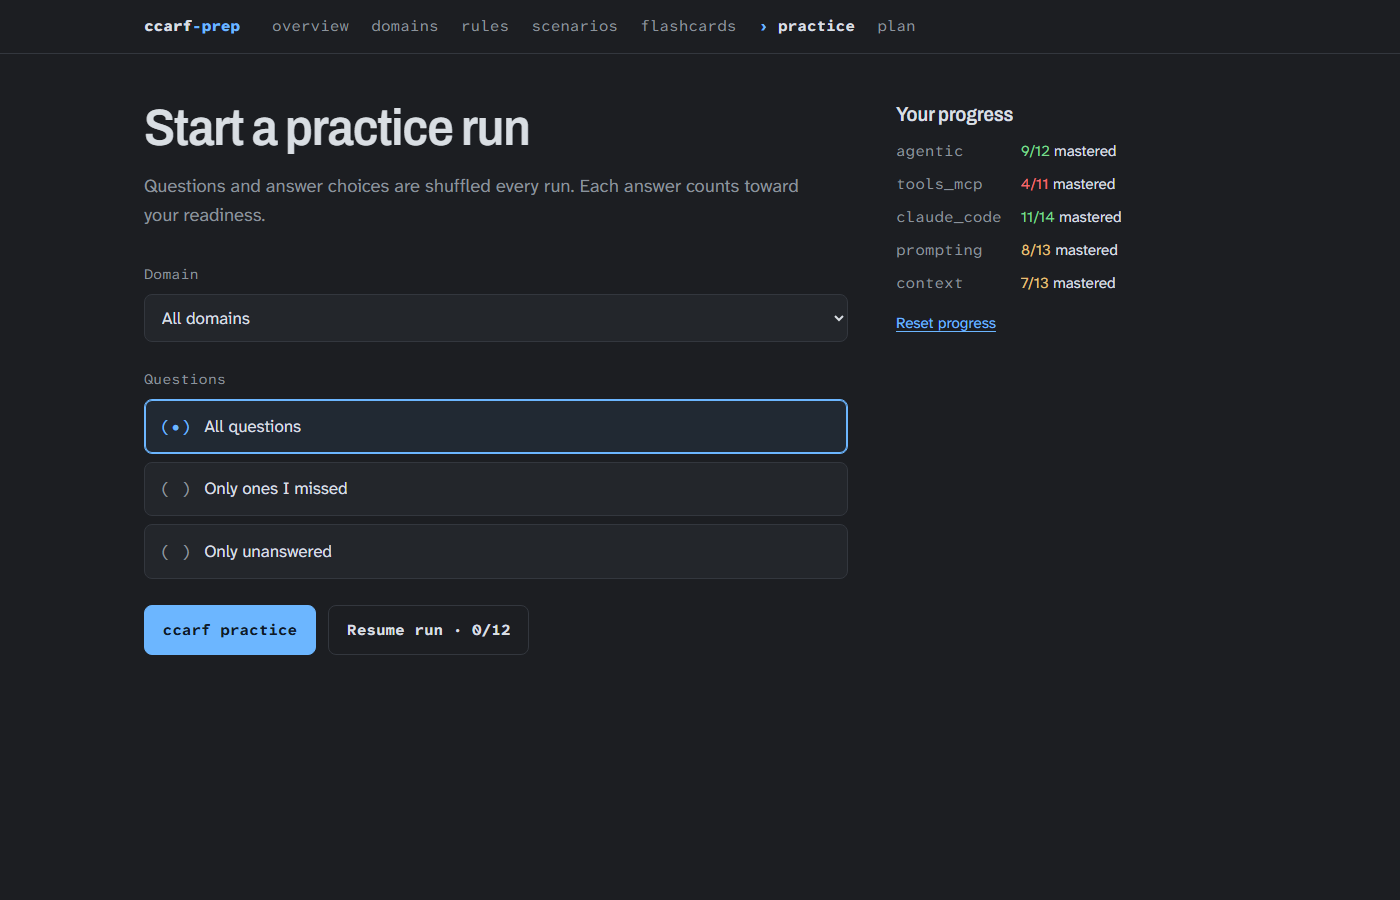
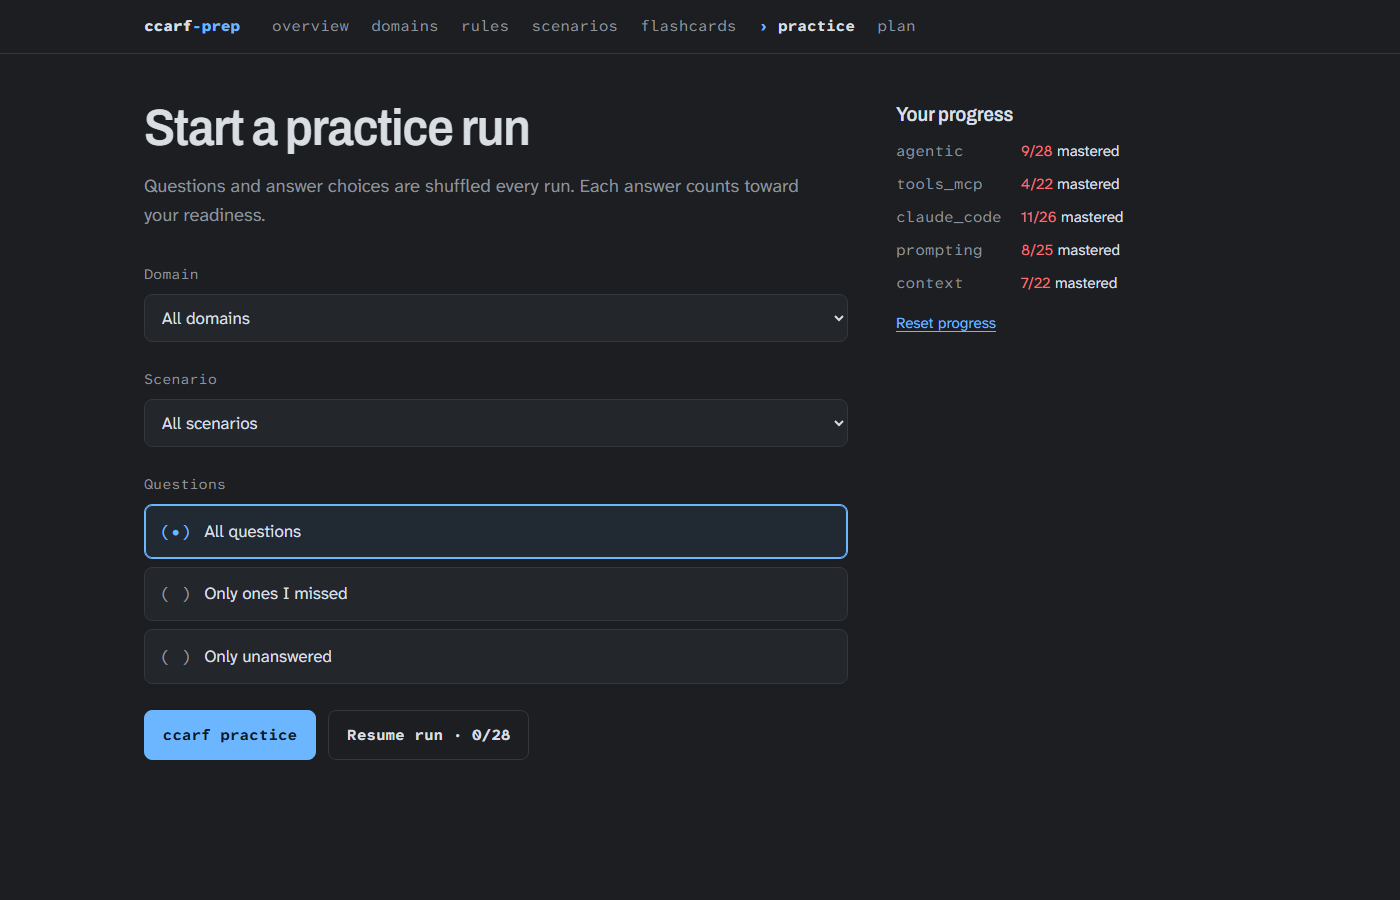
Update README and screenshots for the expanded question bank
Claude-Session: https://claude.ai/code/session_01K6xCNgzK9SvGaRqX1s8Wft

diff --git a/README.md b/README.md
@@ -1,6 +1,6 @@
 # CCAR-F Prep
 
-A study app for the **Claude Certified Architect – Foundations** (CCAR-F) exam. It covers all five exam domains with notes, decision rules, the six exam scenarios, flashcards and 63 practice questions. It tracks how ready you are per domain, and it always suggests practising the domain you're weakest in.
+A study app for the **Claude Certified Architect – Foundations** (CCAR-F) exam. It covers all five exam domains with notes, decision rules, the six exam scenarios, 94 flashcards and 123 practice questions, most of them framed in an exam scenario. It tracks how ready you are per domain, and it always suggests practising the domain you're weakest in.
 
 It's a server-rendered Django app with no build step. It also exports a **static build for GitHub Pages** that you can install on your phone's home screen and use offline.
 
@@ -28,10 +28,11 @@ Screenshots of every page at 1400px and 390px are in [`docs/`](docs/). The appro
   - The primary button, `ccarf practice --domain <slug>`, starts a run for the weakest domain.
 - **Domains:** every task statement for each domain, with "trap" and "what wins" callouts.
 - **Decision rules:** 36 "if this symptom → pick that fix" rows.
-- **Scenarios:** the six exam scenarios, the domains each one covers, and what to look for.
+- **Scenarios:** the six exam scenarios, the domains each one covers, what to look for, and a `ccarf practice --scenario <n>` button to drill one.
 - **Flashcards:** one card at a time, with flip, prev/next, shuffle and arrow keys. Without JavaScript the page shows a readable list of every card.
 - **Practice:**
-  - Pick a domain filter, and a mode: all questions, only the ones you missed, or only unanswered.
+  - Filter by domain and/or scenario, and pick a mode: all questions, only the ones you missed, or only unanswered.
+  - Questions framed in a scenario say so, e.g. `scenario: customer support resolution agent  domain: agentic`.
   - Questions and choices are shuffled once per run.
   - Multi-select questions ("Select TWO") are graded on exact match.
   - After each answer you get feedback in the style of the design: `✗ incorrect  you chose [a]  answer [b]` plus the explanation.
@@ -180,7 +181,8 @@ tests/               pytest-django suites, plus e2e/ for Playwright
 **Content loads in a data migration.**
 - `migrate` alone gives a working app, both in tests (pytest-django runs migrations) and in the Docker entrypoint.
 - The same `content_loader.load()` backs `manage.py load_content`. It upserts on natural keys (domain number, task code, rule/question order, card position) and prunes rows that disappeared from the JSON. Attempts survive reloads unless their question was deleted.
-- It takes a `get_model` callable so the migration can pass historical models. The catch: the migration imports live loader code, so a future schema change has to keep the loader compatible, or freeze a copy into the migration.
+- It takes a `get_model` callable so the migration can pass historical models. The catch: the migration imports live loader code, so the loader has to stay compatible with older schemas. For example, it only sets `Question.scenario` when the model has that field.
+- When the schema changes, add a data migration that reruns the loader (as `0004_reload_content` does). Existing databases, including the Docker volume, then pick up the content on their next `migrate`.
 
 **Grading happens on the server.**
 - The browser only ever sends choice ids. The server checks they belong to the current question, then grades by exact set match: every correct choice and nothing else.
@@ -209,5 +211,5 @@ tests/               pytest-django suites, plus e2e/ for Playwright
 
 ## Content and licences
 
-- **Study content:** `study/content/ccarf.json` holds the domains, task-statement notes, decision rules, scenarios, flashcards and practice questions. The exam facts (60 questions, 120 minutes, 720/1000 to pass, 4 of 6 scenarios, $125) come from the public exam guide; check them against the current guide before you book.
+- **Study content:** `study/content/ccarf.json` holds the domains, task-statement notes, decision rules, scenarios, flashcards and practice questions. Each practice question is grounded in a task statement from the notes, so its explanation matches what the app teaches. Questions can carry a `scenario` number (1–6). `tests/test_content.py` checks the tags, the "Select N" counts, and that the longest choice isn't usually the answer. The exam facts (60 questions, 120 minutes, 720/1000 to pass, 4 of 6 scenarios, $125) come from the public exam guide; check them against the current guide before you book.
 - **Fonts:** Archivo and Atkinson Hyperlegible are licensed under the SIL Open Font License 1.1.
